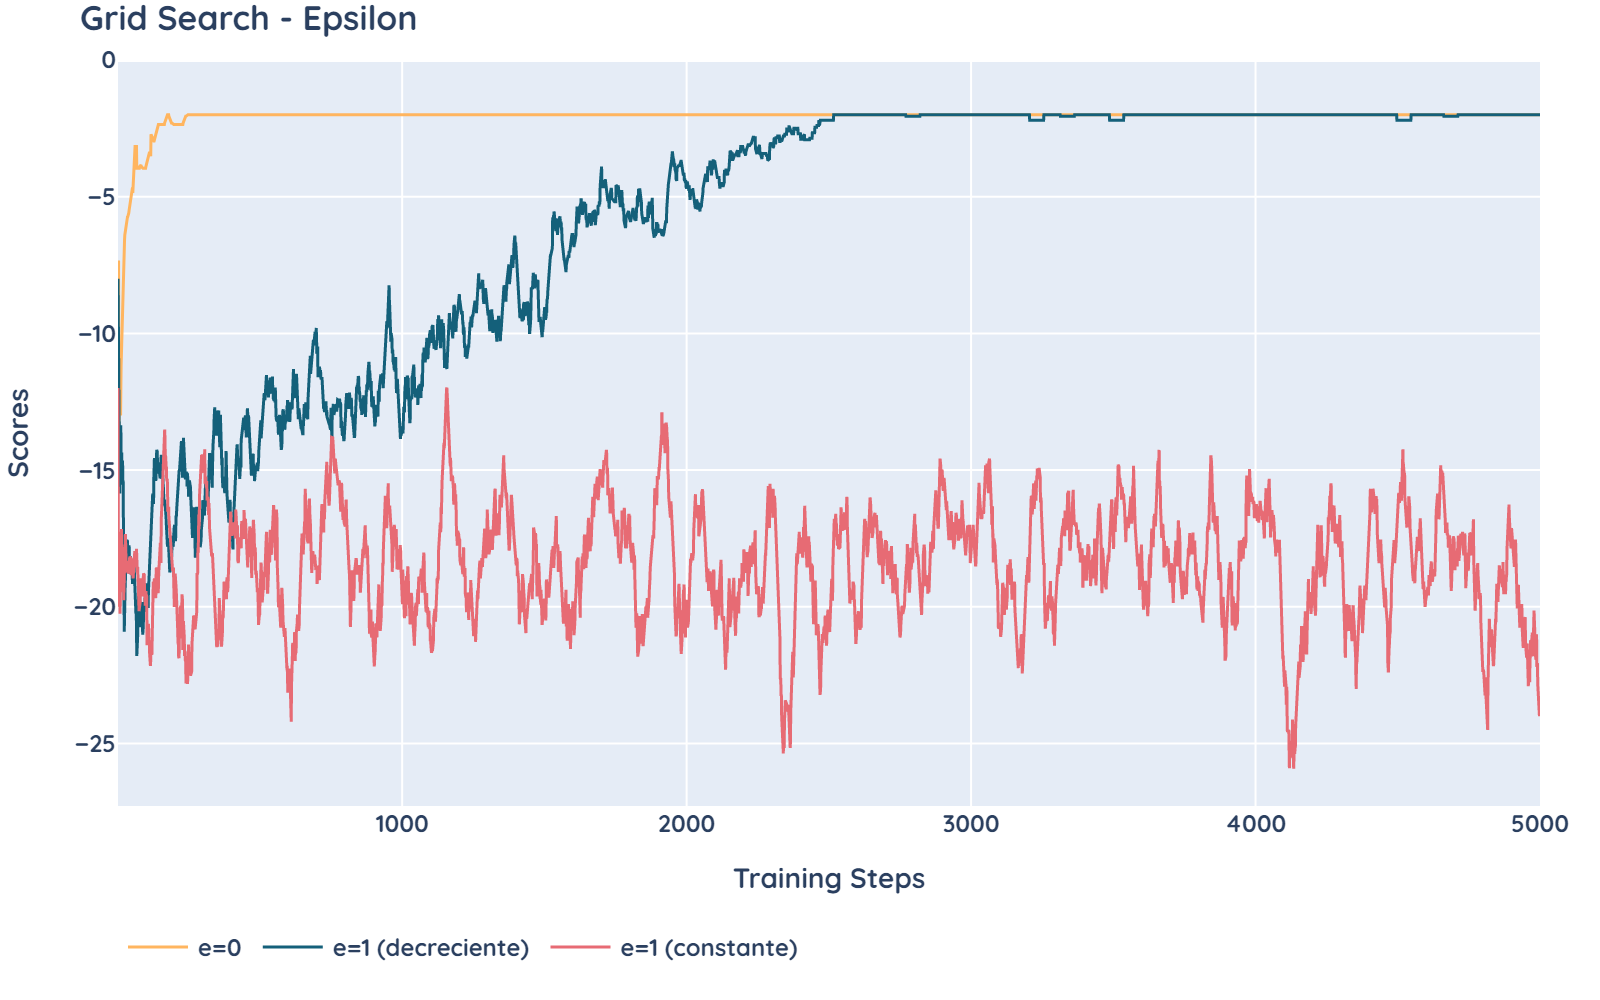
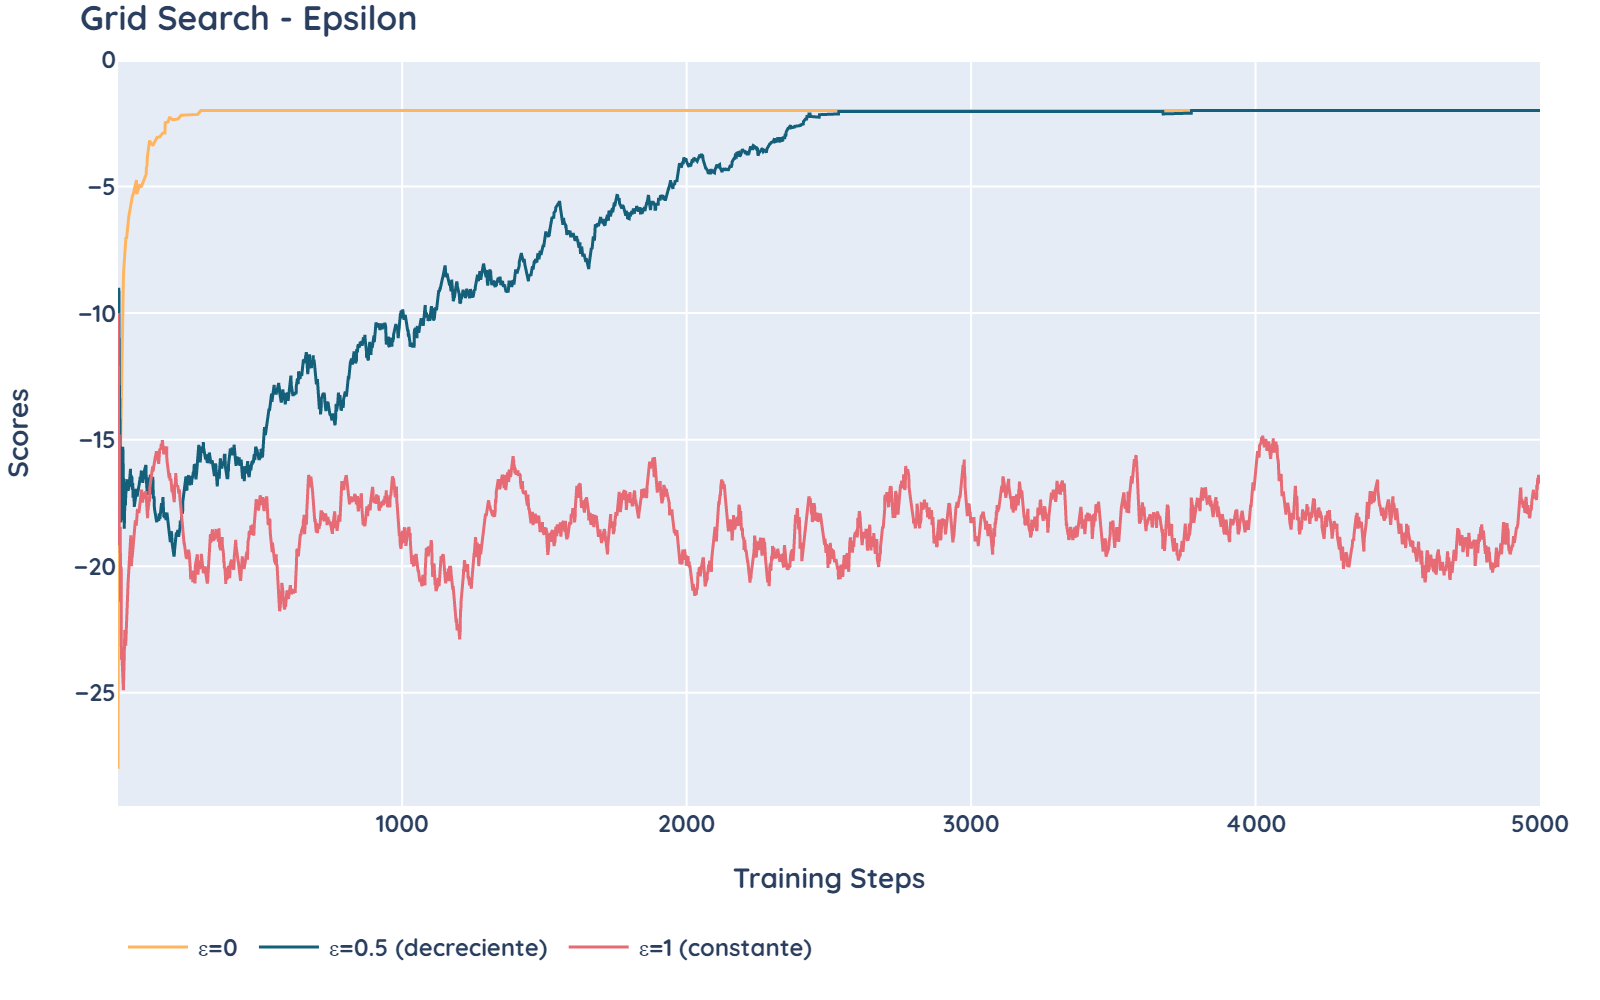
Correccion de recompensas que inferian error en ciertos escenarios

diff --git a/modelo_rl/modelo_rl/q_learn_agent.py b/modelo_rl/modelo_rl/q_learn_agent.py
@@ -23,7 +23,7 @@ class QNAgent(object):
     - Define el estado terminal cuando ya no existen enlaces saturados
     """
 
-    def __init__(self, env, epsilon=1.0, eps_decay=0.5, eps_min=0.01, lr=0.1, discount=1.0, Q=None):
+    def __init__(self, env, epsilon=1.0, eps_decay=0.5, eps_min=0.001, lr=0.1, discount=1.0, Q=None):
         # === Environment
         self.env = env
         self.Q = self.q_table() if Q is None else Q
@@ -63,17 +63,18 @@ class QNAgent(object):
                 print(f"Enlace {idx + 1} saturado, se ha seleccionado el enlace aleatorio {rand + 1}")
             return rand, idx
 
-    # def decrement_epsilon(self, epoch):
-    #     decrement = 1 / (epoch * self.eps_decay) if self.eps_decay != 0 else self.epsilon
-    #     self.epsilon = (self.epsilon - decrement) if self.epsilon > self.eps_min else self.eps_min
     def decrement_epsilon(self, epoch):
-        if self.eps_decay == 0:
-            self.epsilon = 0
-        elif self.eps_decay == 1:
-            self.epsilon = 1
-        else:
-            decrement = 1 / (epoch * self.eps_decay) if self.eps_decay != 0 else self.epsilon
-            self.epsilon = (self.epsilon - decrement) if self.epsilon > self.eps_min else self.eps_min
+        decrement = 1 / (epoch * self.eps_decay) if self.eps_decay != 0 else self.epsilon
+        self.epsilon = (self.epsilon - decrement) if self.epsilon > self.eps_min else self.eps_min
+
+    # def decrement_epsilon(self, epoch):
+    #     if self.eps_decay == 0:
+    #         self.epsilon = 0
+    #     elif self.eps_decay == 1:
+    #         self.epsilon = 1
+    #     else:
+    #         decrement = 1 / (epoch * self.eps_decay) if self.eps_decay != 0 else self.epsilon
+    #         self.epsilon = (self.epsilon - decrement) if self.epsilon > self.eps_min else self.eps_min
 
     def learn(self, path, debug=False, segments=100, epoch=50):
         scores, eps_history, steps, perfect_score = [], [], [], 0

diff --git a/modelo_rl/modelo_rl/examples/grid.py b/modelo_rl/modelo_rl/examples/grid.py
@@ -60,6 +60,7 @@ def lower_opacity(rgb, opacity):
 def plot_multi(plots, title, y_title, x_title, window=20, filename="learning_rate.png"):
     data = []
     colors = ["#FFB55F", "#14607A", "#E76B74"]
+    # colors = get_palette(len(plots))
     i = 0
     for lr, obj in plots.items():
         color = colors[i]
@@ -103,21 +104,23 @@ def save_image(figure, filepath):
 def grid_search():
     # === Discount farsighted, futuras recompensas tienen el mismo peso que las actuales, epsilon random en un inicio, greedy despues
     env = QNEnv(path=path)
+    # discounts = [0, 1]
+    # lrs = [0.01, 0.1, 1]
     eps = [0, 0.5, 1]
-    lrs = [0.001, 0.01, 0.1, 1]
     plots = {}
-    # for lr in lrs:
     for e in eps:
+        # for d in discounts:
         agent = QNAgent(env=env, epsilon=1.0, eps_decay=e, eps_min=0.001, lr=0.1, discount=1.0)
-        _, scores, _, steps, _ = agent.learn(epoch=5000, path=path)
-        name = "e=1 (constante)"
+        _, scores, _, steps, _ = agent.learn(epoch=5000, debug=False, path=path)
+        # name = f"\u03B1={lr}|\u03B4={d}"
+        name = "\u03B5=0"
         if e == 0.5:
-            name = "e=1 (decreciente)"
-        elif e == 0:
-            name = "e=0"
+            name = "\u03B5=0.5 (decreciente)"
+        elif e == 1:
+            name = "\u03B5=1 (constante)"
         plots[name] = {'y': scores, 'x': steps}
-
-    plot_multi(plots, "Grid Search - Epsilon", "Scores", "Training Steps", window=50)
+    print(plots)
+    plot_multi(plots, "Grid Search - Epsilon", "Scores", "Training Steps", window=100)
 
 
 def example_links():
